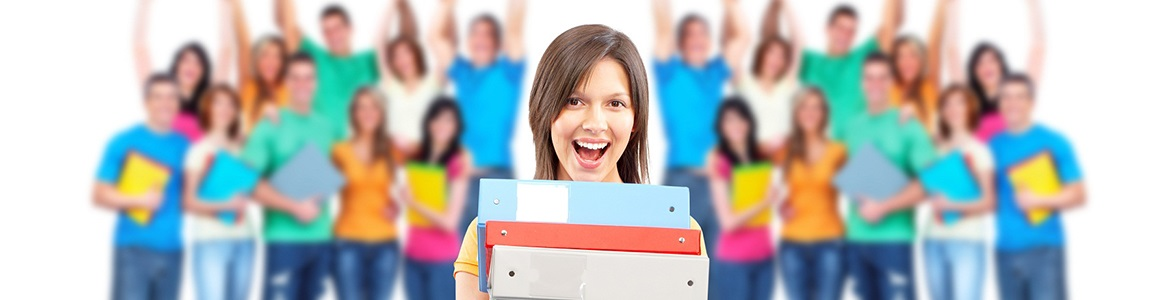
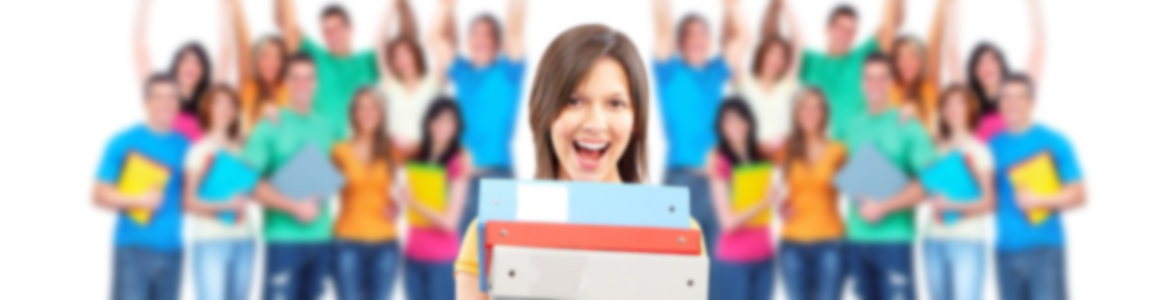
Add variations big_img in head

diff --git a/index.html b/index.html
@@ -296,7 +296,7 @@
     </div>
     <div class="cont big_img big_img_registration">
         <div class="bi_text">
-            <span class="bi_title">Chriseum. Регистрация</span>
+            <span class="bi_title">Регистрация</span>
         </div>
         <div class="bi_text2">
             Данная информационная система направлена на получение информации о христианстве, изучении ее основ и прочей лабуды. Будет очень много поелезного и интересного, особенно в 3D. так что не упустите шанс и поиграйте в наши квесты.
@@ -305,7 +305,25 @@
     <br/><br/>
     <div class="cont big_img big_img_login">
         <div class="bi_text">
-            <span class="bi_title">Chriseum. Авторизация</span>
+            <span class="bi_title">Авторизация</span>
+        </div>
+        <div class="bi_text2">
+            Данная информационная система направлена на получение информации о христианстве, изучении ее основ и прочей лабуды. Будет очень много поелезного и интересного, особенно в 3D. так что не упустите шанс и поиграйте в наши квесты.
+        </div>
+    </div>
+    <br/><br/>
+    <div class="cont big_img big_img_profile">
+        <div class="bi_text">
+            <span class="bi_title">Профиль</span>
+        </div>
+        <div class="bi_text2">
+            Данная информационная система направлена на получение информации о христианстве, изучении ее основ и прочей лабуды. Будет очень много поелезного и интересного, особенно в 3D. так что не упустите шанс и поиграйте в наши квесты.
+        </div>
+    </div>
+    <br/><br/>
+    <div class="cont big_img big_img_exhibit">
+        <div class="bi_text">
+            <span class="bi_title">Экспонаты</span>
         </div>
         <div class="bi_text2">
             Данная информационная система направлена на получение информации о христианстве, изучении ее основ и прочей лабуды. Будет очень много поелезного и интересного, особенно в 3D. так что не упустите шанс и поиграйте в наши квесты.

diff --git a/css/style.css b/css/style.css
@@ -725,14 +725,19 @@ span.field-validation-error{
     font-size: 16px;
     padding: 10px 0px;
 }
-.big_img_registration{
-    background-image: url("../images/head_big_img_reg.jpg");
+.big_img_registration, .big_img_login,.big_img_profile,.big_img_exhibit{
     height: 300px;
     margin-bottom: 20px;
 }
+.big_img_registration{
+    background-image: url("../images/head_big_img_reg.jpg");
+}
 .big_img_login{
-    background-color: #fff;
     background-image: url("../images/head_big_img_login.jpg");
-    height: 300px;
-    margin-bottom: 20px;
+}
+.big_img_profile{
+    background-image: url("../images/head_big_img_profile.jpg");
+}
+.big_img_exhibit{
+    background-image: url("../images/head_big_img_exhibit.jpg");
 }
